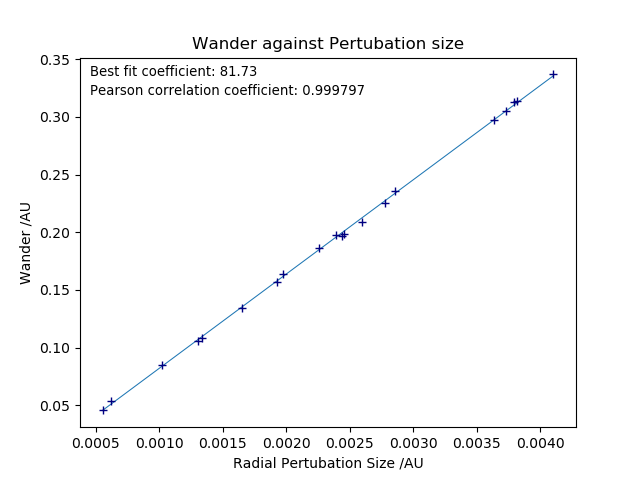
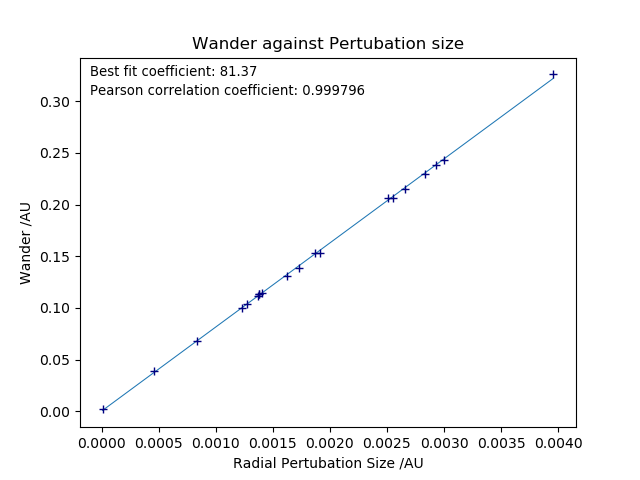
Plot tadpole orbits Occurs for radial perturbations within wander_orbits

diff --git a/wander_orbits.py b/wander_orbits.py
@@ -1,0 +1,98 @@
+import math
+import matplotlib.pyplot as plt
+import numpy as np
+
+import orbits
+
+# from wander import wander
+from constants import M_P, M_S, ORBIT_NUM, PRECISION, G, R  # User defined constants
+from constants import (
+    solar_rad,
+    planet_rad,
+    omega,
+    time_span,
+    lagrange,
+)  # Derived constants
+
+# Initial Conditions
+initial_cond_rot = np.array((lagrange[0], lagrange[1], 0, 0, 0, 0))  # in rotating frame
+initial_cond_stat = np.array(
+    (lagrange[0], lagrange[1], 0, -omega * lagrange[1], omega * lagrange[0], 0)
+)
+
+greek_theta = np.arctan((R * math.sqrt(3) / 2) / (R / 2 - solar_rad))
+cos = math.cos(greek_theta)
+sin = math.sin(greek_theta)
+
+
+def wander(pertubation, samples=1, pertubation_type="position"):
+    """Returns maximum wander over orbit in the rotating frame for given initial point
+
+    Wander is the maximum deviation from the initial point (not the lagrange point) over this timespan
+    position gives the spatial pertubation from the lagrange point
+    Samples denotes the number of random pertubations sampled within that point for gives perturbation size
+    """
+    if pertubation_type == "position":
+        initial_cond = initial_cond_rot + np.array(
+            (pertubation[0], pertubation[1], 0, 0, 0, 0)
+        )  # add pertubation
+    else:
+        initial_cond = initial_cond_rot + np.array(
+            (0, 0, 0, pertubation[0], pertubation[1], 0)
+        )  # add pertubation
+
+    orbit = orbits.rotating_frame(initial_cond)
+    wander_t = np.zeros((len(orbit.t)))
+    for i in range(len(orbit.t)):
+        wander_t[i] = np.linalg.norm(
+            orbit.y[0:3, i]
+            - initial_cond[0:3]
+            # - lagrange[0:3]
+        )  # deviation in pos only
+    return np.max(wander_t)
+
+
+# ROTATING FRAME
+# orbit_sol = orbits.rotating_frame(
+#     (initial_cond_rot + (0, 0, 0, 0, 0, 0))
+# )  # no perturbation
+# orbit_sol = orbits.rotating_frame(
+#     (initial_cond_rot + 0.01 * np.array((cos, sin, 0, 0, 0, 0)))
+# )  # radial perturbation GIVES TADPOLES
+orbit_sol = orbits.rotating_frame(
+    (initial_cond_rot + 0.01 * np.array((sin, -cos, 0, 0, 0, 0)))
+)  # tangential perturbation   GIVES ORBITS
+
+# DEVIATION FROM LAGRANGE POINT
+wndr = np.zeros_like(time_span)
+for i in range(len(time_span)):
+    wndr[i] = np.linalg.norm(orbit_sol.y[0:3, i] - lagrange[0:3])
+plt.plot(time_span, wndr)
+# plt.yscale("log", basey=10)
+plt.ticklabel_format(axis="y", style="", scilimits=None)
+plt.ylabel("Magnitude of Deviation /AU")
+plt.xlabel("Time /years")
+plt.title("Asteroid Deviation from Lagrange point")
+plt.show()
+
+
+plt.plot(time_span, orbit_sol.y[0, :] - lagrange[0])
+# plt.yscale("log", basey=10)
+plt.ticklabel_format(axis="y", style="", scilimits=None)
+plt.ylabel("x Deviation /AU")
+plt.xlabel("Time /years")
+plt.title("Asteroid x Deviation over time")
+plt.show()
+
+plt.plot(time_span, orbit_sol.y[1, :] - lagrange[1])
+# plt.yscale("log", basey=10)
+plt.ticklabel_format(axis="y", style="", scilimits=None)
+plt.ylabel("y Deviation /AU")
+plt.xlabel("Time /years")
+plt.title("Asteroid y Deviation over time")
+plt.show()
+
+
+plt.plot(orbit_sol.y[0, :], orbit_sol.y[1, :], label="Greeks")
+plt.title("Rotating Frame just Greeks")
+plt.show()

diff --git a/planet_mass_variation.py b/planet_mass_variation.py
@@ -1,0 +1,52 @@
+import math
+import matplotlib.pyplot as plt
+import numpy as np
+
+import orbits
+
+# from wander import wander
+from constants import M_P, M_S, ORBIT_NUM, PRECISION, G, R  # User defined constants
+from constants import (
+    solar_rad,
+    planet_rad,
+    omega,
+    time_span,
+    lagrange,
+)  # Derived constants
+
+# Initial Conditions
+initial_cond_rot = np.array((lagrange[0], lagrange[1], 0, 0, 0, 0))  # in rotating frame
+initial_cond_stat = np.array(
+    (lagrange[0], lagrange[1], 0, -omega * lagrange[1], omega * lagrange[0], 0)
+)
+
+greek_theta = np.arctan((R * math.sqrt(3) / 2) / (R / 2 - solar_rad))
+cos = math.cos(greek_theta)
+sin = math.sin(greek_theta)
+
+
+def wander(pertubation, samples=1, pertubation_type="position"):
+    """Returns maximum wander over orbit in the rotating frame for given initial point
+
+    Wander is the maximum deviation from the initial point (not the lagrange point) over this timespan
+    position gives the spatial pertubation from the lagrange point
+    Samples denotes the number of random pertubations sampled within that point for gives perturbation size
+    """
+    if pertubation_type == "position":
+        initial_cond = initial_cond_rot + np.array(
+            (pertubation[0], pertubation[1], 0, 0, 0, 0)
+        )  # add pertubation
+    else:
+        initial_cond = initial_cond_rot + np.array(
+            (0, 0, 0, pertubation[0], pertubation[1], 0)
+        )  # add pertubation
+
+    orbit = orbits.rotating_frame(initial_cond)
+    wander_t = np.zeros((len(orbit.t)))
+    for i in range(len(orbit.t)):
+        wander_t[i] = np.linalg.norm(
+            orbit.y[0:3, i]
+            - initial_cond[0:3]
+            # - lagrange[0:3]
+        )  # deviation in pos only
+    return np.max(wander_t)

diff --git a/orbits.py b/orbits.py
@@ -101,7 +101,7 @@ def rotating_frame(y0_rot=(rcos, rsin, 0, 0, 0, 0)):
 
     return integrate.solve_ivp(
         fun=rot_derivatives,
-        method="LSODA",  # Or LSODA for non-stiff alternative
+        method="Radau",  # Or LSODA for non-stiff alternative
         t_span=(0, ORBIT_NUM * period),
         y0=y0_rot,
         t_eval=time_span,  # selects points for storage

diff --git a/wander.py b/wander.py
@@ -115,7 +115,7 @@ wander_data = max_wander(max_pertubation_size=0.001, samples=20)
 fig = plt.figure()
 ax = fig.add_subplot()
 
-coeff = np.polyfit(wander_data[:, 0], wander_data[:, 2], 1)
+coeff = np.polyfit(wander_data[:, 0], wander_data[:, 2], 1)  # for line of best fit
 plt.plot(
     [wander_data[:, 0].min(), wander_data[:, 0].max()],
     [

diff --git a/constants.py b/constants.py
@@ -8,8 +8,8 @@ M_P = 0.001  # planetary mass
 R = 5.2  # average planetary radius from sun
 
 
-PRECISION = 30  # evaluation points per orbit
-ORBIT_NUM = 50  # number of orbits
+PRECISION = 100  # evaluation points per orbit
+ORBIT_NUM = 100  # number of orbits
 
 
 # DERIVED CONSTANTS
